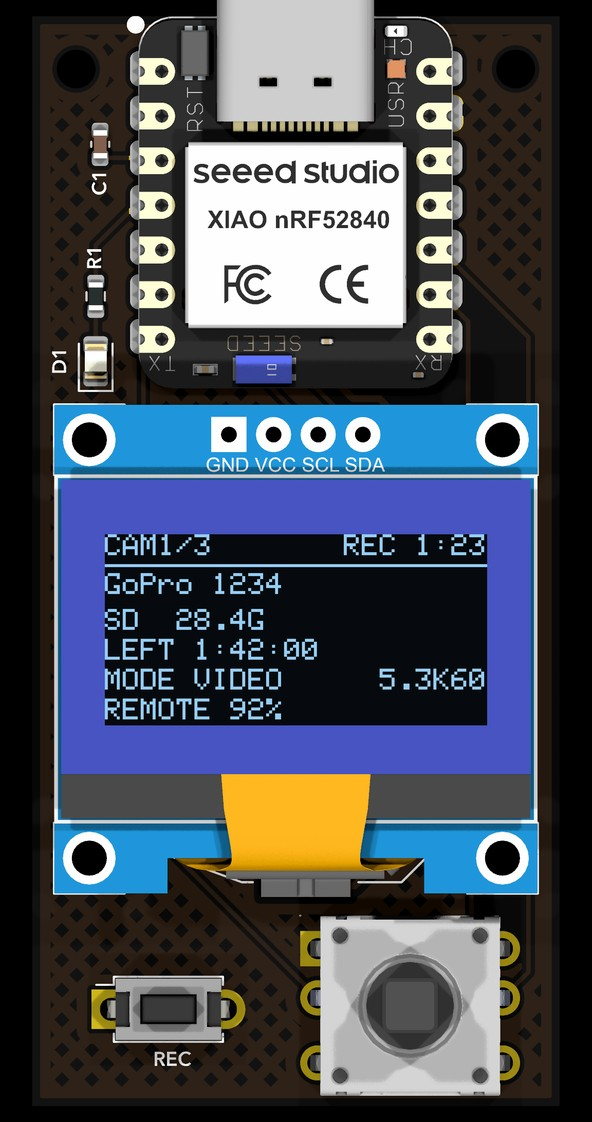
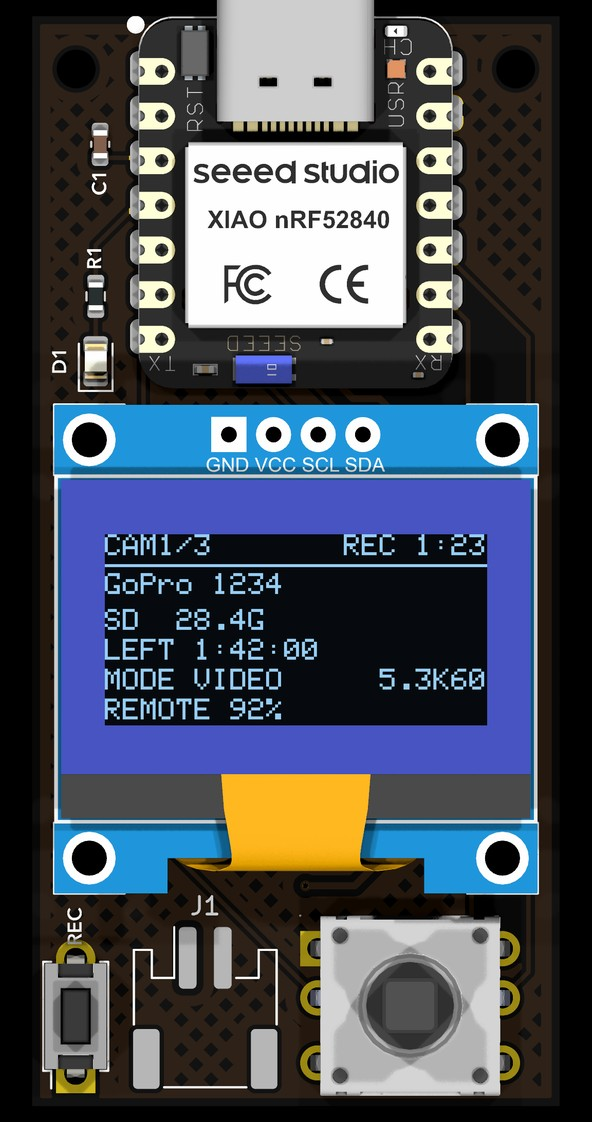
feat: LiPo 化と電源オフを反映
盤: コイン電池ホルダ(BT1/BT2)を削除し、JST PH 2.0(J1)を表面へ。
    REC を 90°回して左端、その隙間に PH。裏シルクは LIPO 1S 3.7V / CHECK POLARITY。
ファーム: 方向スイッチの中央を 2秒長押しで System OFF、REC で復帰。
    30分無操作で自動オフ（録画中は切らない）。画面消灯中は 5秒ごとに LED を短く光らせ、
    「入りっぱなし」が分かるようにした。

・電池のカードを3枚に（502025 / 録画12.5時間 / 一次電池不可＋極性注意）
・仕様表に「電源」「電源操作」
・操作の説明に「中央を長押し」
・未確認の「有機ELの穴位置」は実測で確定したので「消費電流」に差し替え
・画像は新しい盤から再生成

Changed region(s): [[0.0608, 0.7799, 0.4865, 0.9982], [0.3953, 0.7487, 0.6689, 0.8111]]

diff --git a/index.html b/index.html
@@ -236,6 +236,8 @@ REMOTE 88%</div>
       <div class="br ok"><div class="k">左右</div><div class="sub">カメラを選ぶ（ALL → 1 → 2 …）</div></div>
       <div class="br ok"><div class="k">上下</div><div class="sub">画面を切り替える</div></div>
       <div class="br ok"><div class="k">REC ボタン</div><div class="sub">録画の開始 / 停止。<b>これだけ独立した押しボタン</b>にしてある。手袋のまま、画面を見ずに押せる</div></div>
+      <div class="br ok"><div class="k">中央を長押し</div><div class="sub">電源オフ。押している間、画面に進み具合が出る。
+        <b>復帰は REC</b>。カバンの中で当たっただけでは起きない</div></div>
     </div>
   </div>
 </section>
@@ -276,15 +278,20 @@ REMOTE 88%</div>
       <div><img class="fig" src="images/bottom.jpg" alt="うら面"></div>
     </div>
     <div class="branch" style="margin-top:34px">
-      <div class="br ok"><div class="k">電池は表裏どちらでも</div><div class="sub">同じ座標に表裏ランドがあり、実装するのは片方だけ。ケースの作りで選べる</div></div>
-      <div class="br no"><div class="k">CR2032 は使えない</div><div class="sub">一次電池を入れて USB を挿すと充電しようとする。基板にも <b>LIR2032 ONLY - NO CR2032</b> と刷ってある</div></div>
+      <div class="br ok"><div class="k">1S LiPo 502025（250mAh）</div><div class="sub">有機ELの真下、スペーサの 6mm の隙間に寝かせて両面テープで留める。
+        JST PH 2.0 で抜き差しできる</div></div>
+      <div class="br ok"><div class="k">録画したまま 12時間</div><div class="sub">コイン電池（LIR2032・40mAh）だと 1.3時間で、現場1日を通せなかった。
+        <b>250mAh で 12.5時間</b>。★見積り・実機未測定</div></div>
+      <div class="br no"><div class="k">一次電池は使えない</div><div class="sub">USB を挿すと充電しようとする。基板にも <b>LIPO 1S 3.7V &#47; CHECK POLARITY</b> と刷ってある。
+        <b>PH の極性は統一されていない</b>ので、挿す前にテスタで確認すること</div></div>
     </div>
     <table class="ov">
       <tr><td>MCU</td><td>Seeed XIAO nRF52840（技適 211-220207 / 内蔵アンテナ）</td></tr>
       <tr><td>表示</td><td>0.96" 128×64 有機EL（SSD1306 / I2C）</td></tr>
       <tr><td>操作</td><td>REC 専用ボタン（APEM MJTP1250）＋ 5方向スイッチ（BRIGHT TSX101G100-250）</td></tr>
       <tr><td>表示灯</td><td>赤 LED（タリー）＋ モジュール内蔵 RGB（緑=待機 / 赤=録画 / 黄=警告 / 青=探索）</td></tr>
-      <tr><td>電源</td><td><b>LIR2032 のみ</b>（充電式リチウムイオン）。USB-C で充電。<b>CR2032 は不可</b></td></tr>
+      <tr><td>電源</td><td><b>1S LiPo 502025</b>（5.0 &times; 20 &times; 25mm・約250mAh）。JST PH 2.0。USB-C で充電。<b>一次電池は不可</b></td></tr>
+      <tr><td>電源操作</td><td>方向スイッチの中央を 2秒長押しで電源オフ。<b>REC で復帰。</b>30分無操作でも自動オフ（録画中を除く）</td></tr>
       <tr><td>基板</td><td>30.1 × 62.1mm / 2層 / 1oz / 黒レジスト・白シルク・ENIG</td></tr>
       <tr><td>対応</td><td>GoPro HERO9 以降（Open GoPro BLE API）</td></tr>
       <tr><td>同時接続</td><td>最大 8台（一覧は 2列 × 4行）</td></tr>
@@ -302,7 +309,7 @@ REMOTE 88%</div>
       ファームウェアはコンパイルが通るだけで実機で動かしていない。以下は未確認のまま。</p>
     <div class="branch">
       <div class="br no"><div class="k">実機動作</div><div class="sub">BLE 接続・コマンド・ステータス購読とも未検証</div></div>
-      <div class="br no"><div class="k">有機ELの穴位置</div><div class="sub">22×22mm ピッチは実物で未確認</div></div>
+      <div class="br no"><div class="k">消費電流</div><div class="sub">動作時間はすべて見積り。有機ELの 10mA が支配しており、実機で測るまで確定しない</div></div>
       <div class="br no"><div class="k">画面QRの可読性</div><div class="sub">1モジュール 0.34mm。近づける必要がある</div></div>
     </div>
     <p class="say">設計ファイルと経緯は手元にある。<b>作って動かしたら、ここを書き換える。</b></p>

diff --git a/README.md b/README.md
@@ -30,7 +30,9 @@
 |---|---|
 | MCU | Seeed XIAO nRF52840（技適 211-220207 / 内蔵アンテナ） |
 | 表示 | 0.96" 128×64 有機EL（SSD1306 / I2C） |
-| 電源 | **LIR2032 のみ**（充電式リチウムイオン）。USB-C で充電。**CR2032 は不可** |
+| 電源 | **1S LiPo 502025**（5.0 × 20 × 25mm・約250mAh）。JST PH 2.0。USB-C で充電。**一次電池は不可** |
+| 電源操作 | 方向スイッチの中央を 2秒長押しで電源オフ、**REC で復帰**。30分無操作でも自動オフ（録画中を除く） |
+| 連続動作 | 録画中 約12.5時間（★見積り・実機未測定） |
 | 基板 | 30.1 × 62.1mm / 2層 / 1oz / 黒レジスト・白シルク・ENIG |
 | 対応 | GoPro HERO9 以降（Open GoPro BLE API） |
 
